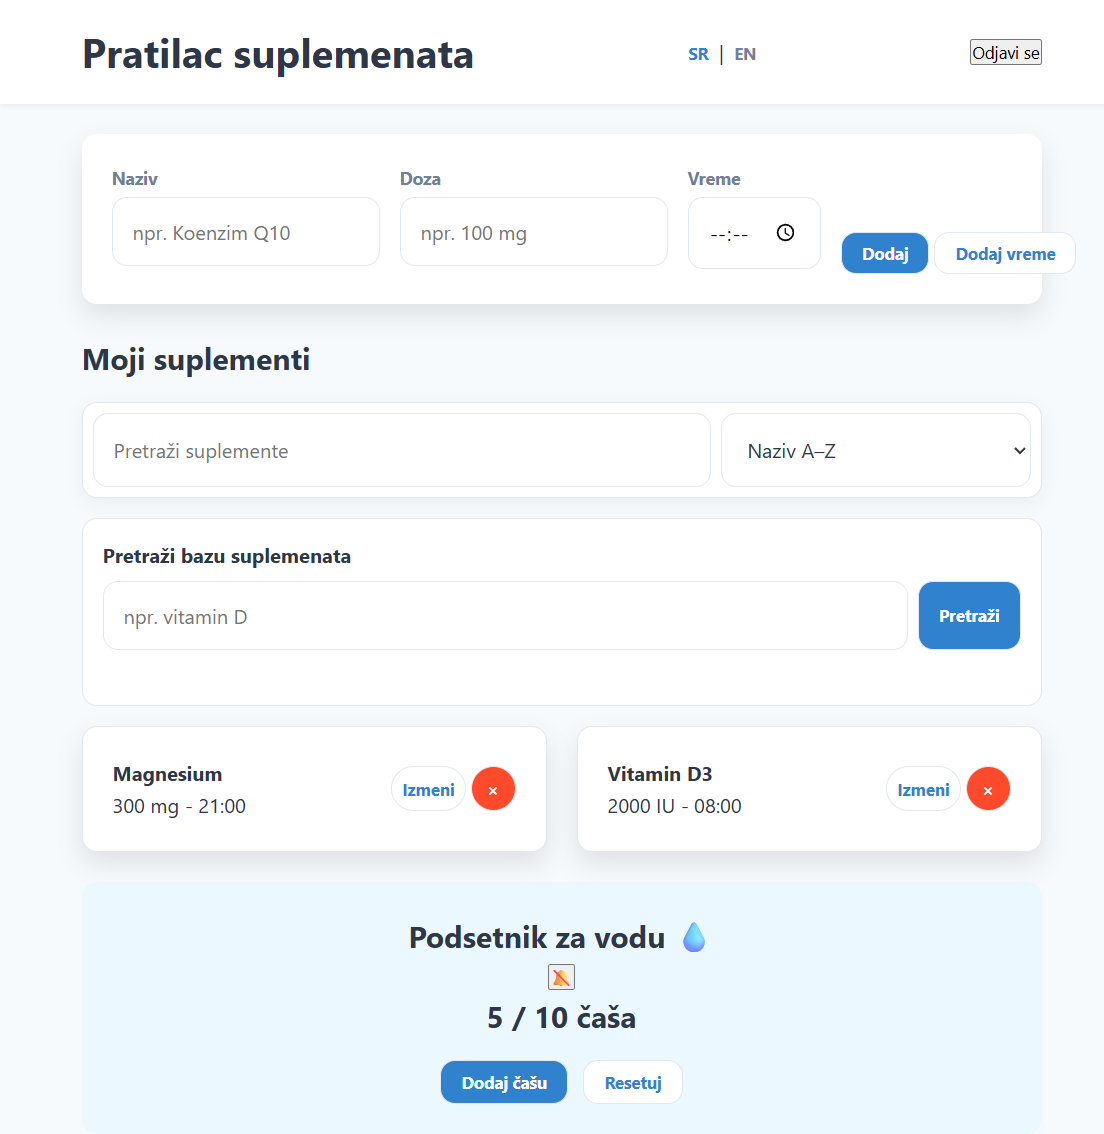
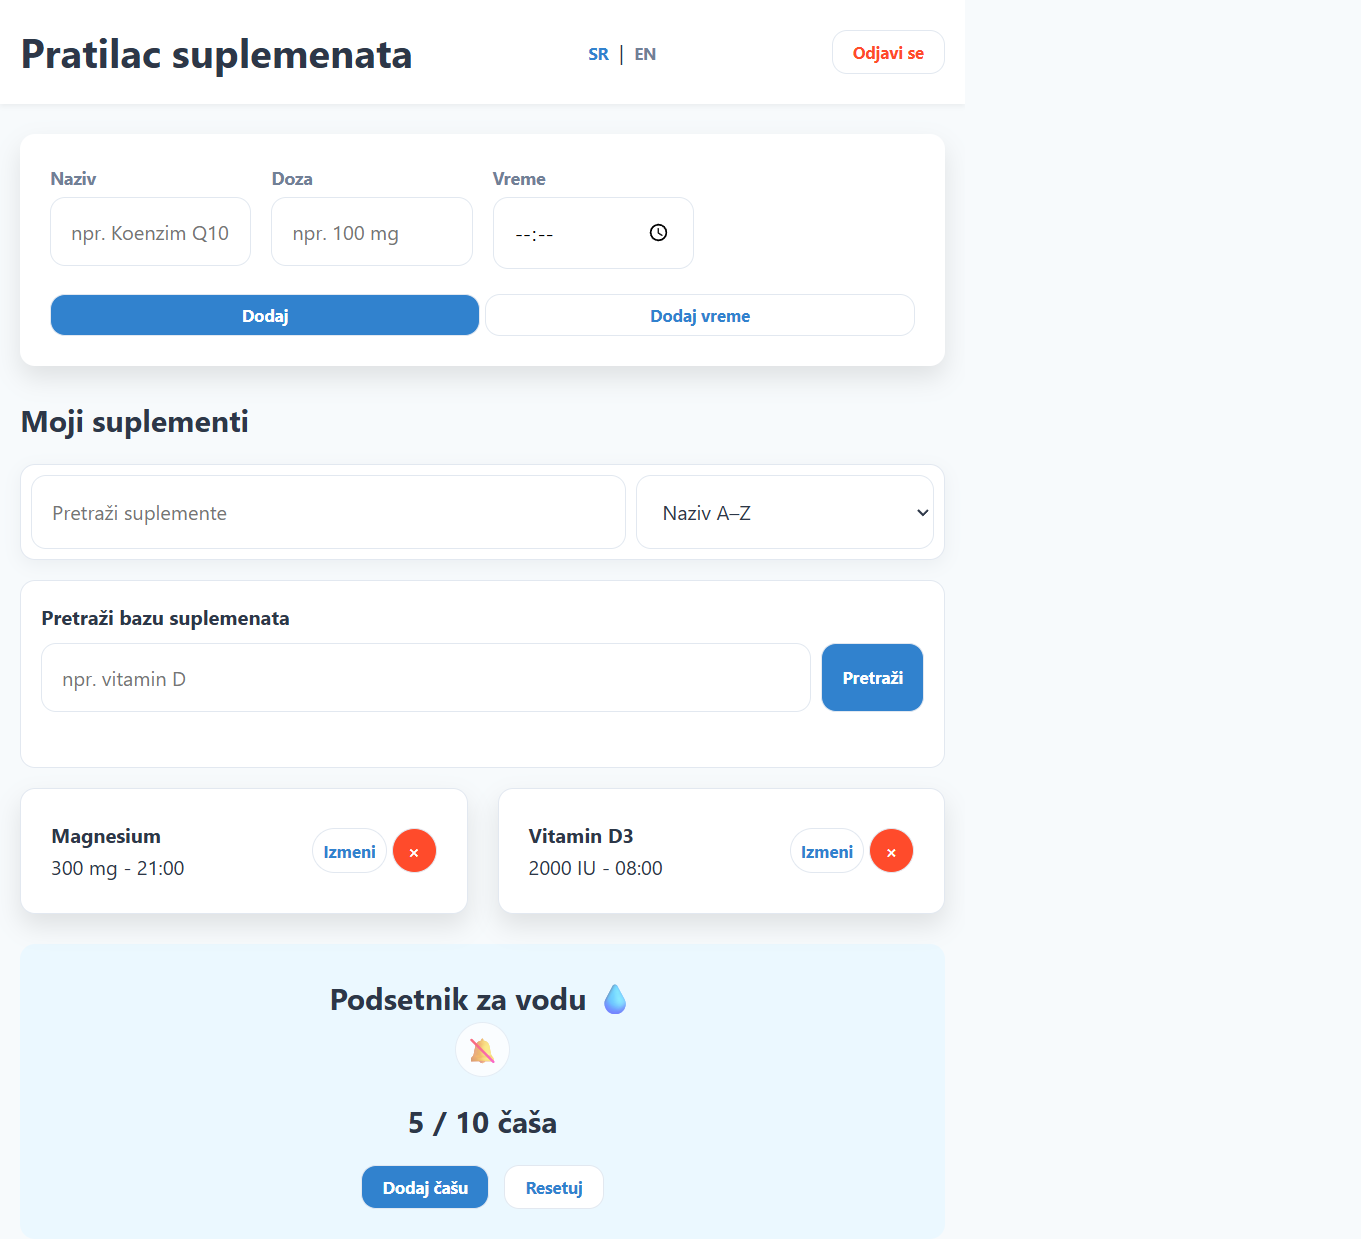
chore: update screenshot to reflect new layout

diff --git a/index.html b/index.html
@@ -23,8 +23,8 @@
       property="og:image"
       content="https://it-supplement-tracker.netlify.app/screenshot.png"
     />
-    <meta property="og:image:width" content="1104" />
-    <meta property="og:image:height" content="1134" />
+    <meta property="og:image:width" content="1361" />
+    <meta property="og:image:height" content="1239" />
     <meta
       property="og:image:alt"
       content="Supplement Tracker application interface"
